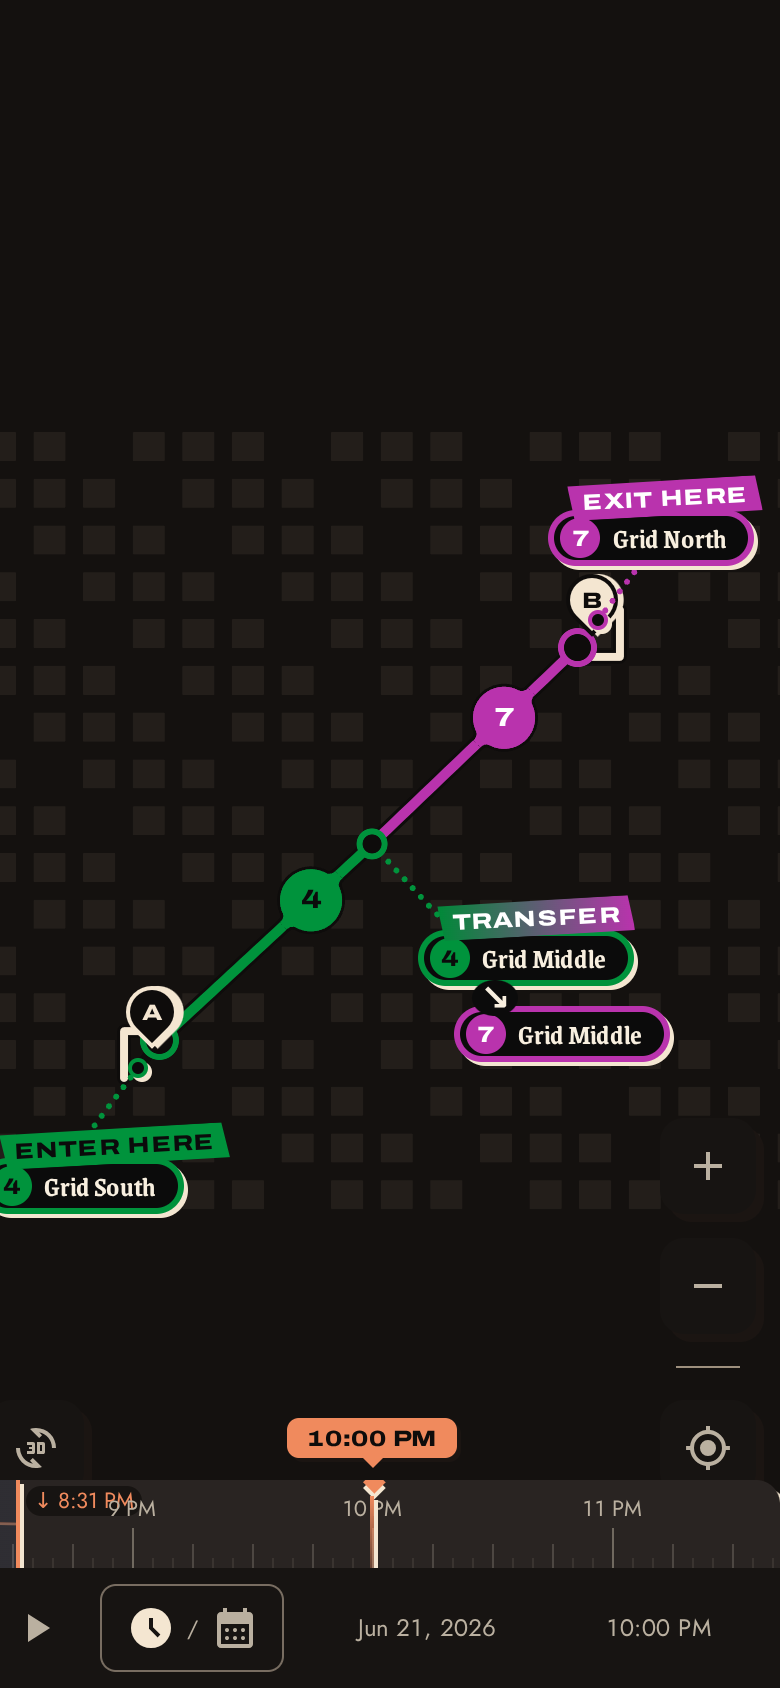
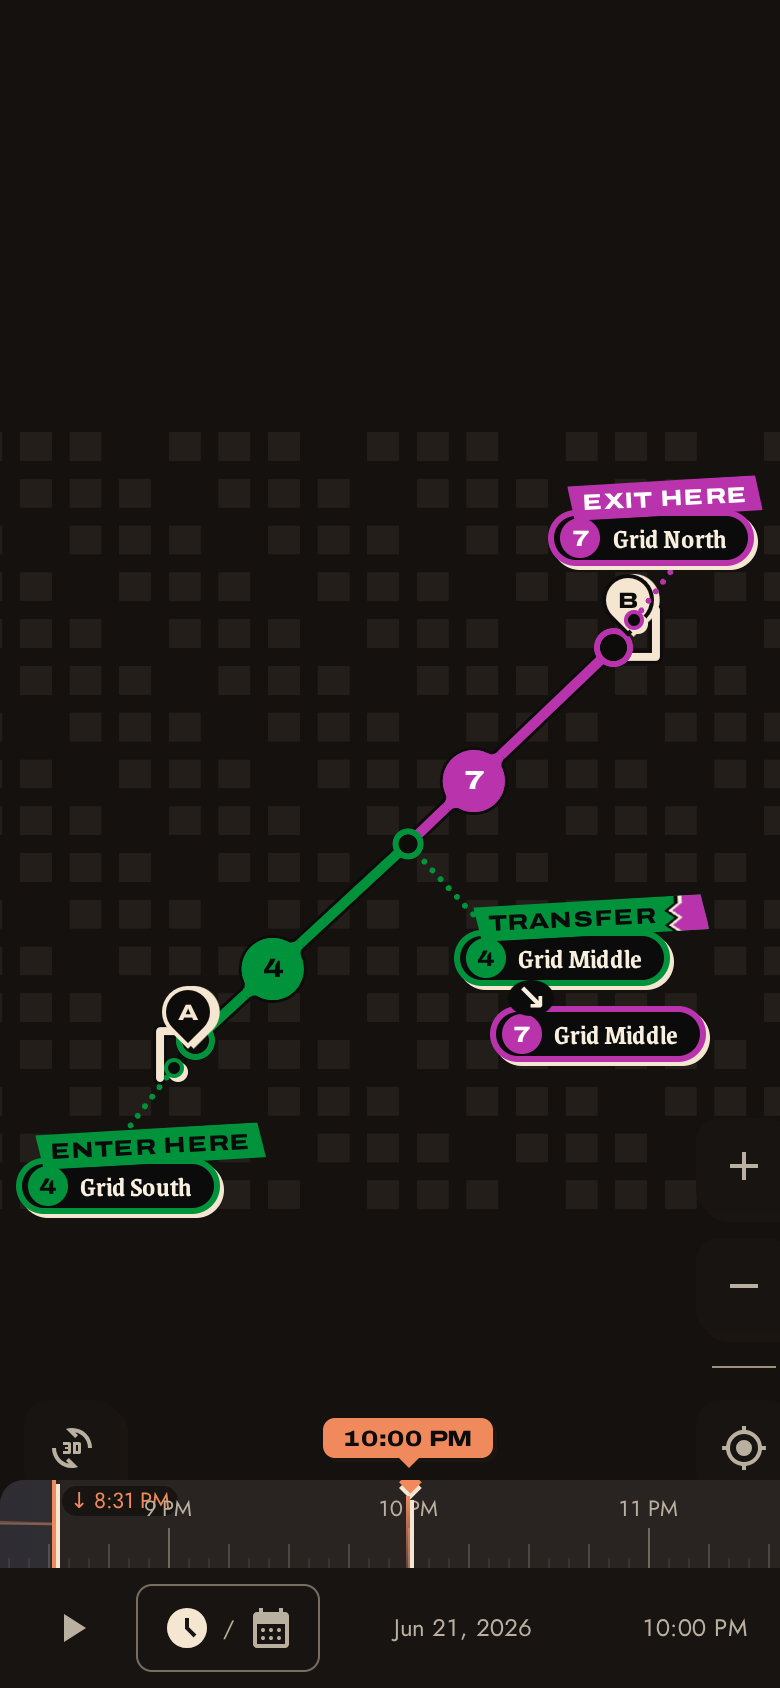
fix(design): tear the transfer kicker into the boarded line instead of a gradient
TRANSFER now sits on the arriving line's colour in the same ink as its Enter
here plate, and ends in a torn tail of the boarded line's colour. The tear is
edged in cream with a hard dark shadow (--filter-tear), so it separates line
colours of equal lightness. Drops lineWhitePlateFill and the darkened green.

diff --git a/app/components/mapPins.ts b/app/components/mapPins.ts
@@ -1,5 +1,5 @@
 import { COIN_RADIUS } from "../lib/lineBadges";
-import { lineBulletInk, lineCssColor, lineWhitePlateFill } from "../lib/lineBulletInk";
+import { lineBulletInk, lineCssColor } from "../lib/lineBulletInk";
 
 /**
  * Umbra redesign 2.0 R4b map pins: one teardrop, two fills, never colour alone.
@@ -278,25 +278,33 @@ export function transferFlagElement(
   `;
   const plate = document.createElement("span");
   plate.dataset.part = "kicker";
-  const fromPlate = lineWhitePlateFill(from.color);
-  const toPlate = lineWhitePlateFill(to.color);
-  const whiteOnGradient = fromPlate !== null && toPlate !== null;
+  plate.textContent = "Transfer";
+  // The word takes the arriving line's plate, inked as its Enter here plate is.
+  const css = lineCssColor(from.color);
+  const ink = lineBulletInk(css);
   plate.style.cssText = `
-    position:relative;z-index:1;margin:0 0 -3px 10px;padding:2px 7px;white-space:nowrap;
+    position:relative;z-index:1;margin:0 0 -3px 10px;padding:2px 26px 2px 7px;white-space:nowrap;
     font-family:var(--font-label);font-size:11px;font-weight:800;letter-spacing:0.06em;
-    text-transform:uppercase;line-height:1.3;color:var(--color-line-ink-white);
-    rotate:var(--angle-flag);clip-path:var(--plate-clip);
-    background:linear-gradient(90deg, ${fromPlate ?? lineCssColor(from.color)}, ${toPlate ?? lineCssColor(to.color)});
+    text-transform:uppercase;line-height:1.3;rotate:var(--angle-flag);clip-path:var(--plate-clip);
+    ${ink ? `background:${css};color:var(--color-line-ink-${ink});` : `background:var(--color-line-ink-light);color:var(--color-line-ink-dark);border:2px solid ${css};`}
   `;
-  if (whiteOnGradient) {
-    plate.textContent = "Transfer";
-  } else {
-    const plateText = document.createElement("span");
-    plateText.textContent = "Transfer";
-    plateText.style.cssText = "display:block;padding:0 3px;background:var(--color-line-ink-dark);color:var(--color-line-ink-white);";
-    plate.style.padding = "3px 5px";
-    plate.appendChild(plateText);
-  }
+  // A torn tail of the boarded line's colour. The tear is edged in cream, then a
+  // hard dark shadow, so it reads between lines of equal lightness; the filter sits
+  // on a wrapper because clipping the same element would cut its shadow away.
+  const tail = document.createElement("span");
+  tail.dataset.part = "transfer-tail";
+  tail.setAttribute("aria-hidden", "true");
+  tail.style.cssText = `
+    position:absolute;top:0;bottom:0;right:0;width:18px;
+    filter:var(--filter-tear);
+  `;
+  const tailFill = document.createElement("span");
+  tailFill.style.cssText = `
+    display:block;height:100%;background:${lineCssColor(to.color)};
+    clip-path:polygon(5px 0,100% 0,100% 100%,5px 100%,0 80%,5px 60%,0 40%,5px 20%);
+  `;
+  tail.appendChild(tailFill);
+  plate.appendChild(tail);
   const shields = document.createElement("div");
   shields.dataset.part = "shield";
   shields.style.cssText = "display:flex;flex-direction:column;align-items:flex-start;";

diff --git a/app/components/__tests__/mapPins.test.ts b/app/components/__tests__/mapPins.test.ts
@@ -143,20 +143,26 @@ describe("transferFlagElement", () => {
     expect((flag.querySelector("[data-part='from-shield']") as HTMLElement).style.border).toContain("rgb(0, 147, 60)");
     expect((flag.querySelector("[data-part='to-shield']") as HTMLElement).style.border).toContain("rgb(185, 51, 173)");
     expect((flag.querySelector("[data-part='to-shield'] [data-part='line']") as HTMLElement).style.color).toBe("var(--color-line-ink-white)");
-    expect((flag.querySelector("[data-part='kicker']") as HTMLElement).style.backgroundImage).toContain("linear-gradient");
-    expect((flag.querySelector("[data-part='kicker']") as HTMLElement).style.color).toBe("var(--color-line-ink-white)");
+    const plate = flag.querySelector<HTMLElement>("[data-part='kicker']")!;
+    expect(plate.style.background).toBe("rgb(0, 147, 60)");
+    expect(plate.style.color).toBe("var(--color-line-ink-dark)");
+    const tail = plate.querySelector<HTMLElement>("[data-part='transfer-tail']")!;
+    expect((tail.firstElementChild as HTMLElement).style.background).toBe("rgb(185, 51, 173)");
+    expect(tail.style.filter).toBe("var(--filter-tear)");
     expect(flag.style.pointerEvents).toBe("none");
   });
 
-  it("keeps the gradient but grounds text when a bright line cannot carry white", () => {
+  it("sets the word in the arriving line's ink and tails in the boarded colour", () => {
     const flag = transferFlagElement(
       { line: "N", color: "#FCCC0A", name: "Canal St" },
-      { line: "7", color: "#B933AD", name: "Times Sq" },
+      { line: "A", color: "#0039A6", name: "Canal St" },
       [1, 0],
     );
     const plate = flag.querySelector<HTMLElement>("[data-part='kicker']")!;
-    expect(plate.style.backgroundImage).toContain("linear-gradient");
-    expect(plate.querySelector("span")?.style.background).toBe("var(--color-line-ink-dark)");
-    expect(plate.querySelector("span")?.textContent).toBe("Transfer");
+    expect(plate.style.background).toBe("rgb(252, 204, 10)");
+    expect(plate.style.color).toBe("var(--color-line-ink-dark)");
+    expect(plate.style.backgroundImage).not.toContain("gradient");
+    const tail = plate.querySelector<HTMLElement>("[data-part='transfer-tail'] > span")!;
+    expect(tail.style.background).toBe("rgb(0, 57, 166)");
   });
 });

diff --git a/app/lib/__tests__/lineBulletInk.test.ts b/app/lib/__tests__/lineBulletInk.test.ts
@@ -1,5 +1,5 @@
 import { describe, expect, it } from "vitest";
-import { contrastRatio, lineBulletInk, lineWhitePlateFill } from "../lineBulletInk";
+import { contrastRatio, lineBulletInk } from "../lineBulletInk";
 
 describe("lineBulletInk", () => {
   it.each([
@@ -30,18 +30,5 @@ describe("lineBulletInk", () => {
     expect(lineBulletInk("")).toBeNull();
     const contrastGap = `#${"77".repeat(3)}`;
     expect(lineBulletInk(contrastGap)).toBeNull();
-  });
-});
-
-describe("lineWhitePlateFill", () => {
-  it("keeps the purple hue and darkens green only enough for white text", () => {
-    const green = lineWhitePlateFill("#00933C");
-    expect(green).not.toBe("#00933C");
-    expect(contrastRatio(green!, "#ffffff")).toBeGreaterThanOrEqual(4.5);
-    expect(lineWhitePlateFill("#B933AD")).toBe("#b933ad");
-  });
-
-  it("leaves a bright line to use a solid text inset", () => {
-    expect(lineWhitePlateFill("#FCCC0A")).toBeNull();
   });
 });

diff --git a/app/lib/lineBulletInk.ts b/app/lib/lineBulletInk.ts
@@ -49,16 +49,3 @@ export function lineBulletInk(lineColor: string): "dark" | "light" | "white" | n
   }
   return dark >= light ? "dark" : "light";
 }
-
-/** A line hue darkened only enough for white kicker text, within a small colour shift. */
-export function lineWhitePlateFill(lineColor: string): string | null {
-  const css = lineCssColor(lineColor);
-  const match = /^#([0-9a-f]{6})$/i.exec(css);
-  if (!match) return null;
-  const channels = [0, 2, 4].map((index) => Number.parseInt(match[1].slice(index, index + 2), 16));
-  for (let shade = 0; shade <= 20; shade++) {
-    const fill = `#${channels.map((channel) => Math.round(channel * (100 - shade) / 100).toString(16).padStart(2, "0")).join("")}`;
-    if ((contrastRatio(fill, WHITE) ?? 0) >= MIN_TEXT_CONTRAST) return fill;
-  }
-  return null;
-}

diff --git a/e2e/smoke.spec.ts b/e2e/smoke.spec.ts
@@ -332,7 +332,7 @@ test("shows both lines and the transfer before and during navigation", async ({ 
   await expect(transferFlag).toHaveCount(1);
   await expect(transferFlag).toHaveAttribute("aria-label", "Transfer: 4, Grid Middle to 7, Grid Middle");
   await expect(transferFlag.locator("[data-part='kicker']")).toHaveText("Transfer");
-  await expect(transferFlag.locator("[data-part='kicker']")).toHaveCSS("background-image", /linear-gradient/);
+  await expect(transferFlag.locator("[data-part='transfer-tail'] > span")).toHaveCSS("background-color", "rgb(185, 51, 173)");
   await expect(transferFlag.locator("[data-part='line']")).toHaveText(["4", "7"]);
   await expect(transferFlag.locator("[data-part='to-shield'] [data-part='line']")).toHaveCSS("color", "rgb(255, 255, 255)");
 

diff --git a/app/globals.css b/app/globals.css
@@ -206,6 +206,9 @@
   --ease-stamp: cubic-bezier(0.2, 0.7, 0.2, 1);
   /* Plates are clipped, so their hard shadow is a zero-blur drop-shadow. */
   --filter-plate: drop-shadow(2px 2px 0 #1b1512);
+  /* A transfer kicker's tear: a cream paper edge, then a hard dark shadow. Theme-fixed
+     like the line inks, so it separates any two line colours on either map. */
+  --filter-tear: drop-shadow(-1.5px 0 0 var(--color-line-ink-light)) drop-shadow(-2px 0 0 var(--color-line-ink-dark));
   --grain-opacity: 0.07;
 
   /* Type: display words, stamped labels/numbers, body, compact keys. */

diff --git a/docs/tracks/TRACK_R.md b/docs/tracks/TRACK_R.md
@@ -30,8 +30,8 @@ inspiration; the public mirror publishes everything here.
   fixed zero. The rail time, wait and exposure remain whole-trip figures; no per-line
   minutes are inferred. Each new boarding now flies a Transfer kicker flag from the
   change stop, with separate line-coloured shields for the arriving and departing stops
-  and an arrow between them; the kicker plate grades from the arriving line's colour to
-  the boarded line's. Same-station changes need no explicit transfer edge. The
+  and an arrow between them; the kicker plate reads on the arriving line's colour and ends
+  in a torn tail of the boarded line's. Same-station changes need no explicit transfer edge. The
   flag is a pointer-free DOM overlay and clamps inside the map. The longer itinerary keeps
   Start Navigating at the phone sheet foot and resets the sheet to its top on phase changes.
   Before/after phone shots in both themes are in `docs/design/shots/transit-transfer/`.
@@ -132,7 +132,7 @@ inspiration; the public mirror publishes everything here.
 - **Next action:** independent reviews of #158 when agent quota permits, then owner review and R6 — timeline and sheet (#138). #126 keeps its SettingsPanel/SaveRouteModal half.
 - **Last verified (#157):** 2026-10-01 on Node 24; lint (0 errors, 81 baseline warnings),
   typecheck, 1,806 unit tests, build, design:check and e2e 18/18. Day and night phone shots
-  show filled 7 bullets, the change station, and the graded Transfer flag on the map. The supplied
+  show filled 7 bullets, the change station, and the torn-tail Transfer flag on the map. The supplied
   live route could not be checked locally because its street-data request returned 503;
   a real-phone feel check is outstanding.
 - **Last verified (#155):** 2026-09-30 on Node 24; lint (0 errors, 81 baseline warnings),

diff --git a/docs/design/language.md b/docs/design/language.md
@@ -24,7 +24,7 @@ These are source values; R1 registers role names, not generic color utilities. S
 
 For actual transit line bullets, the reference quartets are blue `#60CDE3 / #10130D / #0C1B1D / #1A3237`, green `#97DA79 / #0E1A08 / #101B0A / #2C3D24`, and yellow `#FFE14D / #0B0B0B / #1F1C0C / #3C361A` (accent / badge ink / ground / plate). R1 may adapt the ground and plate to the day theme while preserving the line's identity and contrast. A colored line alone must never be the only distinction; show its identifier.
 
-Published line colours keep a filled identifier when dark, cream, or white ink reaches 4.5:1. White keeps the 7's purple and J/Z brown filled where cream misses. A line colour that still has no readable ink uses a ringed identifier. Transfer kickers run from the arriving line's colour to the boarded line's colour; the plate darkens either end only enough for white text, or sets the text on dark ink when a bright line cannot carry white.
+Published line colours keep a filled identifier when dark, cream, or white ink reaches 4.5:1. White keeps the 7's purple and J/Z brown filled where cream misses. A line colour that still has no readable ink uses a ringed identifier. A transfer kicker reads Transfer on the arriving line's colour in that line's ink, then ends in a torn tail of the boarded line's colour; the tear is edged in cream with a hard dark shadow so the change reads even between lines of equal lightness.
 
 ### Contrast and outdoor reading
 
